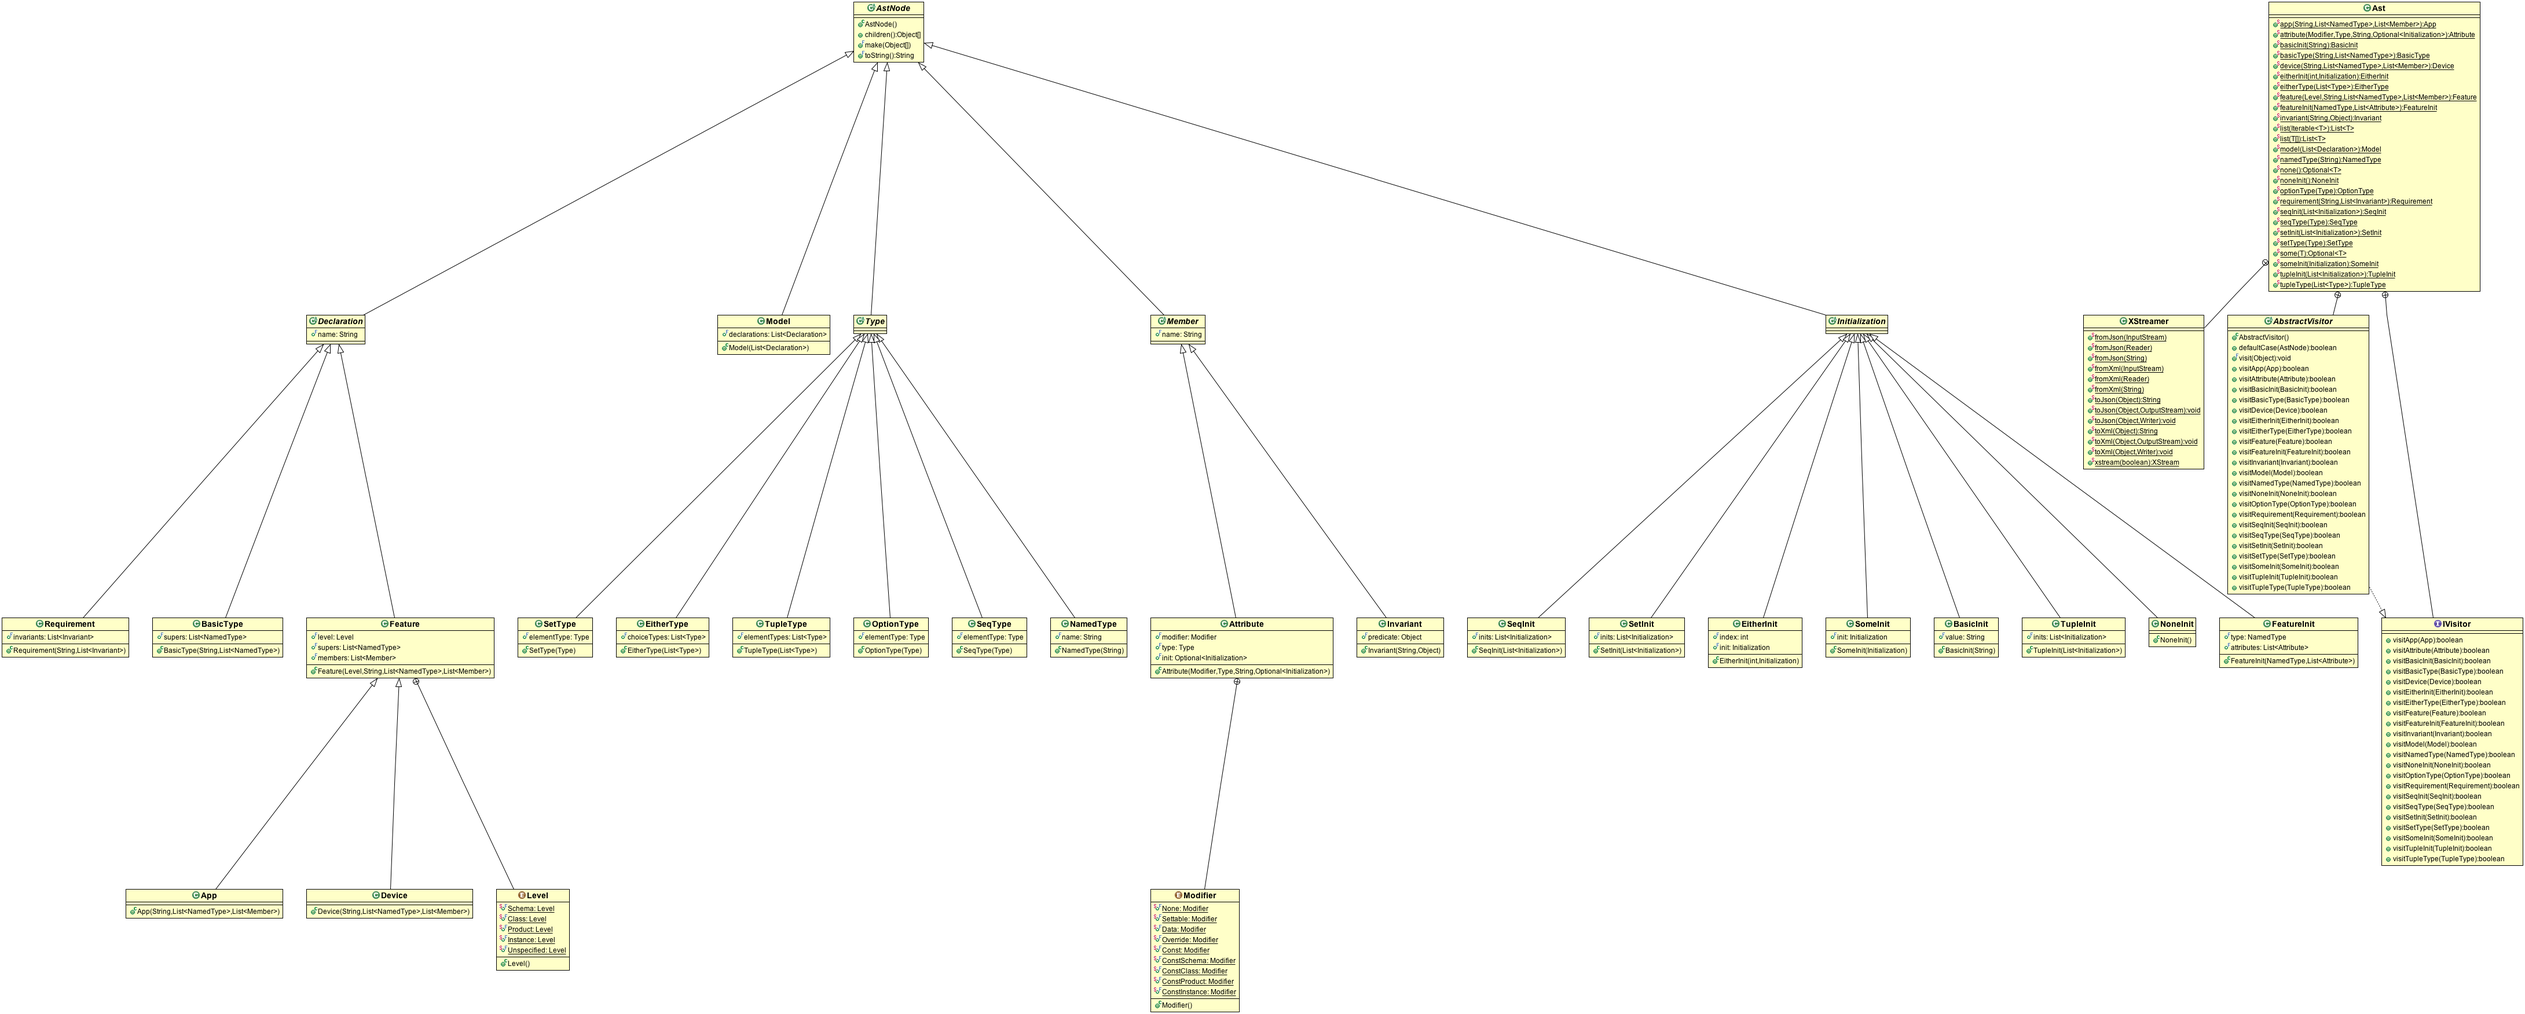
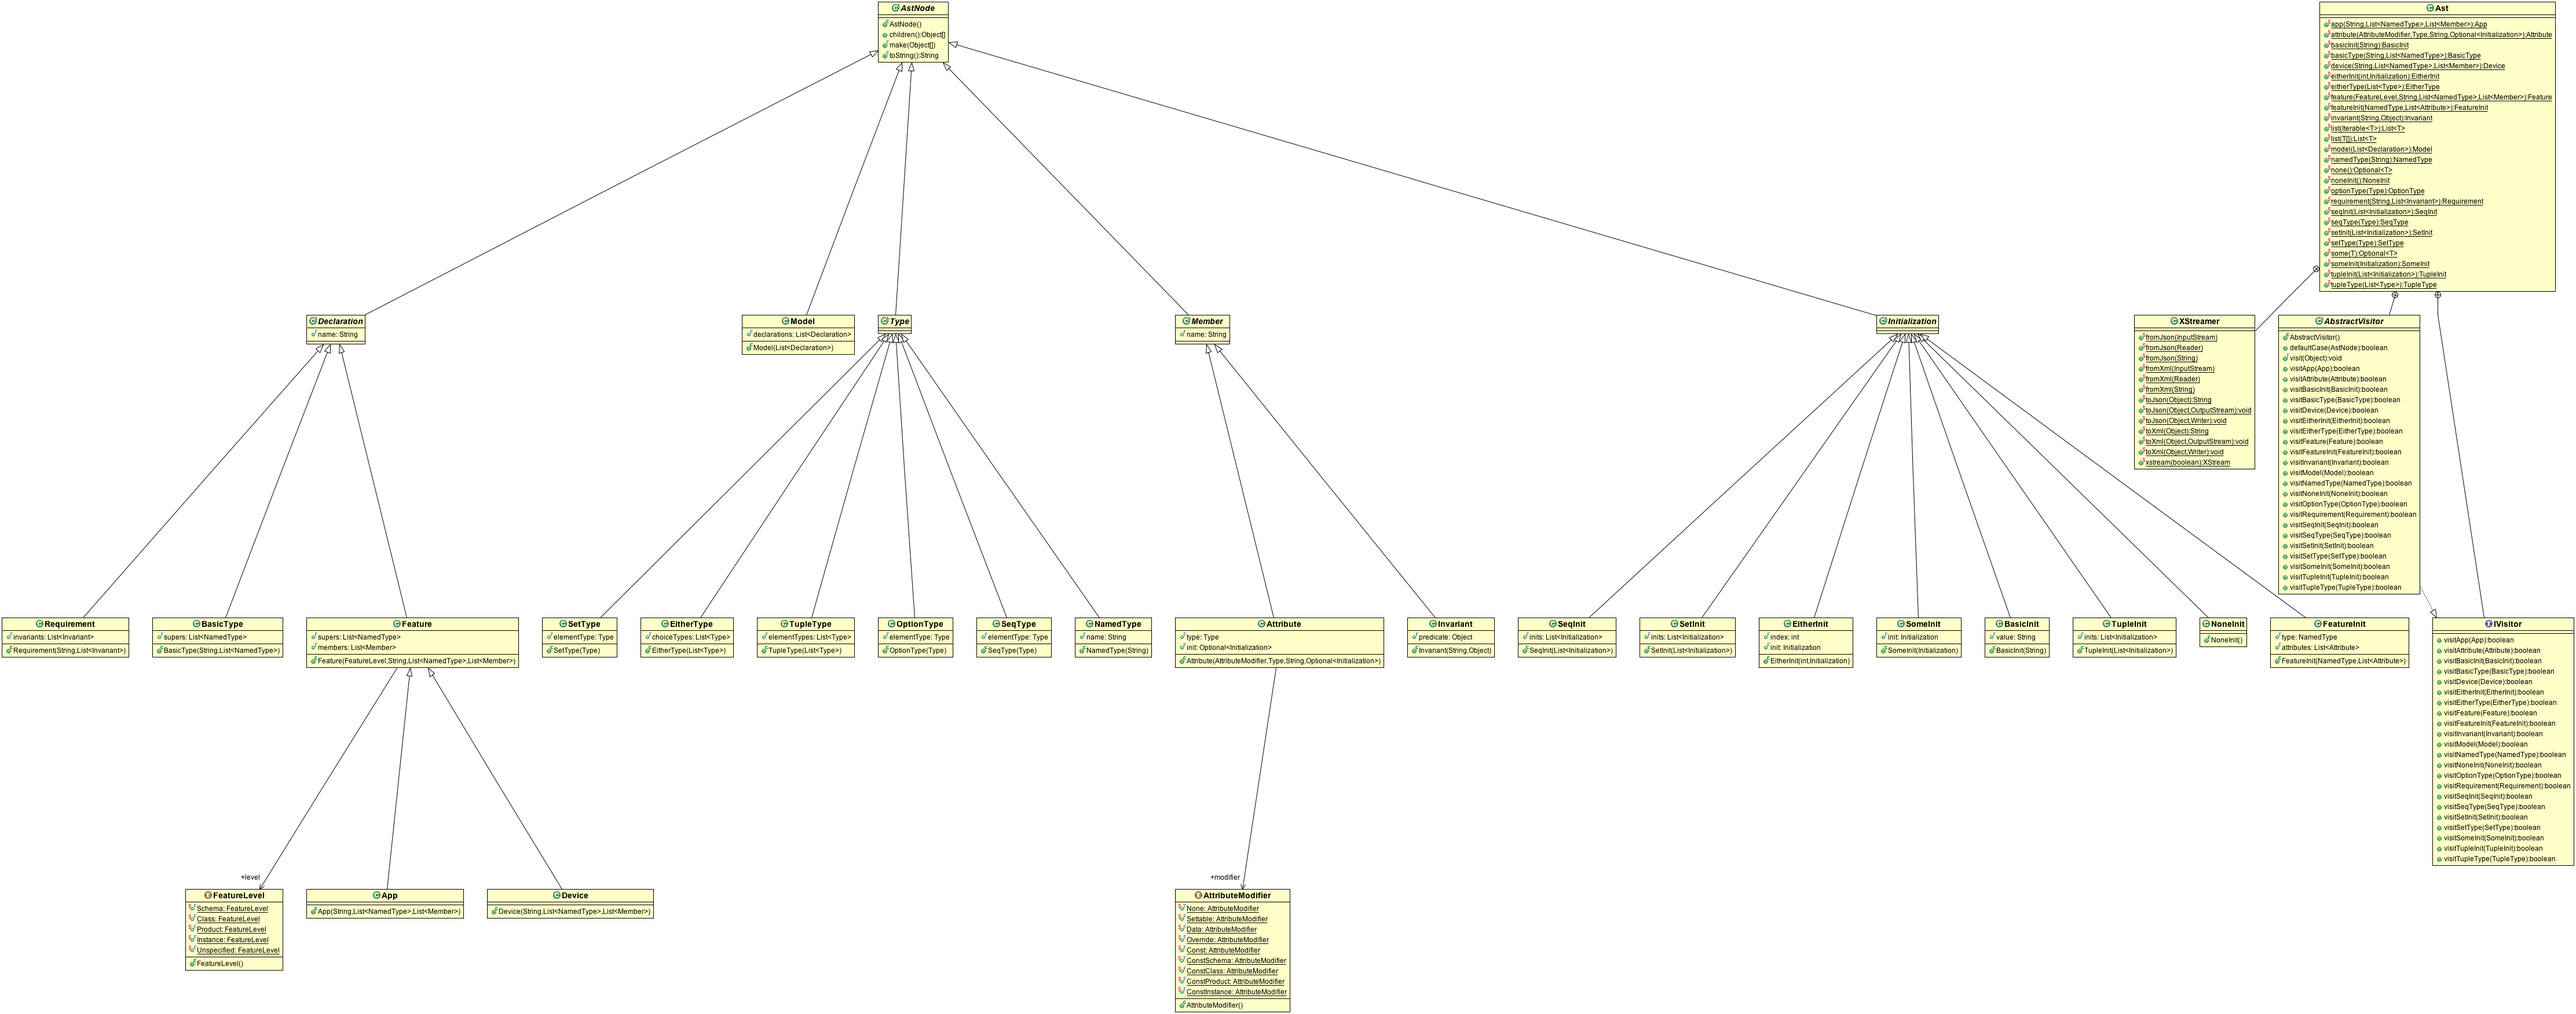
Made Feature.Level and Attribute.Modifier to be top level, and made AstNode.toString to give result an eval-able representation to reconstruct the AST node back.

diff --git a/mdcf-dml-ast/src/edu/ksu/cis/santos/mdcf/dml/ast/AstNode.java b/mdcf-dml-ast/src/edu/ksu/cis/santos/mdcf/dml/ast/AstNode.java
@@ -46,7 +46,9 @@ public abstract class AstNode {
   @Override
   public final String toString() {
     final StringBuilder sb = new StringBuilder();
-    sb.append(getClass().getSimpleName());
+    final String name = getClass().getSimpleName();
+    sb.append(Character.toLowerCase(name.charAt(0)));
+    sb.append(name.substring(1));
     sb.append('(');
     final Object[] children = children();
     final int len = children.length;
@@ -63,7 +65,7 @@ public abstract class AstNode {
   private void toString(final StringBuilder sb, final Object o) {
     if (o instanceof List) {
       final List<?> l = (List<?>) o;
-      sb.append("List(");
+      sb.append("list(");
       final int size = l.size();
       for (int i = 0; i < size; i++) {
         toString(sb, l.get(i));
@@ -75,11 +77,11 @@ public abstract class AstNode {
     } else if (o instanceof Optional) {
       final Optional<?> opt = (Optional<?>) o;
       if (opt.isPresent()) {
-        sb.append("Some(");
+        sb.append("some(");
         toString(sb, opt.get());
         sb.append(')');
       } else {
-        sb.append("None");
+        sb.append("none()");
       }
     } else if (o instanceof String) {
       final String s = (String) o;

diff --git a/mdcf-dml-ast/src/edu/ksu/cis/santos/mdcf/dml/ast/Ast.java b/mdcf-dml-ast/src/edu/ksu/cis/santos/mdcf/dml/ast/Ast.java
@@ -27,9 +27,6 @@ import com.thoughtworks.xstream.io.HierarchicalStreamWriter;
 import com.thoughtworks.xstream.io.json.JettisonMappedXmlDriver;
 import com.thoughtworks.xstream.io.xml.Xpp3Driver;
 
-import edu.ksu.cis.santos.mdcf.dml.ast.Attribute.Modifier;
-import edu.ksu.cis.santos.mdcf.dml.ast.Feature.Level;
-
 /**
  * @author <a href="mailto:robby@k-state.edu">Robby</a>
  */
@@ -385,8 +382,8 @@ public class Ast {
     return new App(name, supers, members);
   }
 
-  public static Attribute attribute(final Modifier modifier, final Type type,
-      final String name, final Optional<Initialization> init) {
+  public static Attribute attribute(final AttributeModifier modifier,
+      final Type type, final String name, final Optional<Initialization> init) {
     return new Attribute(modifier, type, name, init);
   }
 
@@ -412,7 +409,7 @@ public class Ast {
     return new EitherType(choiceTypes);
   }
 
-  public static Feature feature(final Level level, final String name,
+  public static Feature feature(final FeatureLevel level, final String name,
       final List<NamedType> supers, final List<Member> members) {
     return new Feature(level, name, supers, members);
   }

diff --git a/mdcf-dml-ast/src/edu/ksu/cis/santos/mdcf/dml/ast/Attribute.java b/mdcf-dml-ast/src/edu/ksu/cis/santos/mdcf/dml/ast/Attribute.java
@@ -14,17 +14,13 @@ import com.google.common.base.Optional;
  * @author <a href="mailto:robby@k-state.edu">Robby</a>
  */
 public final class Attribute extends Member {
-  public static enum Modifier {
-    None, Settable, Data, Override, Const, ConstSchema, ConstClass, ConstProduct, ConstInstance
-  }
-
-  public final Modifier modifier;
+  public final AttributeModifier modifier;
   public final Type type;
 
   public final Optional<Initialization> init;
 
-  public Attribute(final Modifier modifier, final Type type, final String name,
-      final Optional<Initialization> init) {
+  public Attribute(final AttributeModifier modifier, final Type type,
+      final String name, final Optional<Initialization> init) {
     super(name);
     this.modifier = modifier;
     this.type = type;

diff --git a/mdcf-dml-ast/src/edu/ksu/cis/santos/mdcf/dml/ast/AttributeModifier.java b/mdcf-dml-ast/src/edu/ksu/cis/santos/mdcf/dml/ast/AttributeModifier.java
@@ -8,25 +8,11 @@ http://www.eclipse.org/legal/epl-v10.html
 
 package edu.ksu.cis.santos.mdcf.dml.ast;
 
-import java.util.List;
-
 /**
  * @author <a href="mailto:robby@k-state.edu">Robby</a>
  */
-public final class Device extends Feature {
-
-  public Device(final String name, final List<NamedType> supers,
-      final List<Member> members) {
-    super(FeatureLevel.Product, name, supers, members);
-  }
-
-  @Override
-  protected Object[] getChildren() {
-    return new Object[] { this.name, this.members };
-  }
-
-  @Override
-  protected boolean visit(final Ast.IVisitor visitor) {
-    return visitor.visitDevice(this);
-  }
+public enum AttributeModifier {
+  None, //
+  Settable, Data, Override, // 
+  Const, ConstSchema, ConstClass, ConstProduct, ConstInstance
 }

diff --git a/mdcf-dml-ast/src/edu/ksu/cis/santos/mdcf/dml/ast/FeatureLevel.java b/mdcf-dml-ast/src/edu/ksu/cis/santos/mdcf/dml/ast/FeatureLevel.java
@@ -8,25 +8,9 @@ http://www.eclipse.org/legal/epl-v10.html
 
 package edu.ksu.cis.santos.mdcf.dml.ast;
 
-import java.util.List;
-
 /**
  * @author <a href="mailto:robby@k-state.edu">Robby</a>
  */
-public final class Device extends Feature {
-
-  public Device(final String name, final List<NamedType> supers,
-      final List<Member> members) {
-    super(FeatureLevel.Product, name, supers, members);
-  }
-
-  @Override
-  protected Object[] getChildren() {
-    return new Object[] { this.name, this.members };
-  }
-
-  @Override
-  protected boolean visit(final Ast.IVisitor visitor) {
-    return visitor.visitDevice(this);
-  }
+public enum FeatureLevel {
+  Schema, Class, Product, Instance, Unspecified
 }

diff --git a/mdcf-dml-ast/src/edu/ksu/cis/santos/mdcf/dml/ast/Feature.java b/mdcf-dml-ast/src/edu/ksu/cis/santos/mdcf/dml/ast/Feature.java
@@ -16,17 +16,13 @@ import java.util.List;
  * @author <a href="mailto:robby@k-state.edu">Robby</a>
  */
 public class Feature extends Declaration {
-  public static enum Level {
-    Schema, Class, Product, Instance, Unspecified
-  }
-
-  public final Level level;
+  public final FeatureLevel level;
 
   public final List<NamedType> supers;
 
   public final List<Member> members;
 
-  public Feature(final Level level, final String name,
+  public Feature(final FeatureLevel level, final String name,
       final List<NamedType> supers, final List<Member> members) {
     super(name);
     this.level = level;

diff --git a/mdcf-dml-ast/src/edu/ksu/cis/santos/mdcf/dml/ast/App.java b/mdcf-dml-ast/src/edu/ksu/cis/santos/mdcf/dml/ast/App.java
@@ -17,7 +17,7 @@ public final class App extends Feature {
 
   public App(final String name, final List<NamedType> supers,
       final List<Member> members) {
-    super(Feature.Level.Product, name, supers, members);
+    super(FeatureLevel.Product, name, supers, members);
   }
 
   @Override
